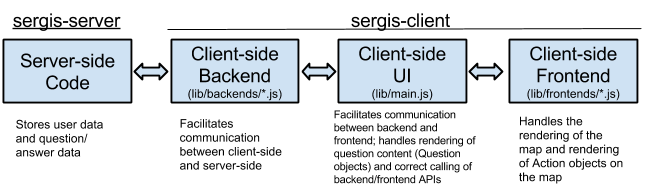
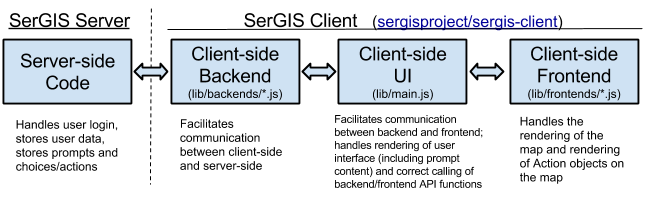
Updated server-client graphic

diff --git a/docs/index.md b/docs/index.md
@@ -24,7 +24,7 @@ sidebar:
 ---
 # Documentation
 
-<p style="text-align: center;"><img src="server-client.png" style="border: 1px solid black; padding: 10px; border-radius: 5px;"></p>
+<p style="text-align: center;"><a href="https://docs.google.com/drawings/d/1aDEHLen7vmv6BJ2mfVee2BMB6y3Zp8NhDK-hQRfoTIc/edit?usp=sharing"><img src="server-client.png" style="border: 1px solid black; padding: 10px; border-radius: 5px;"></a></p>
 
 ## SerGIS Object Reference
 
